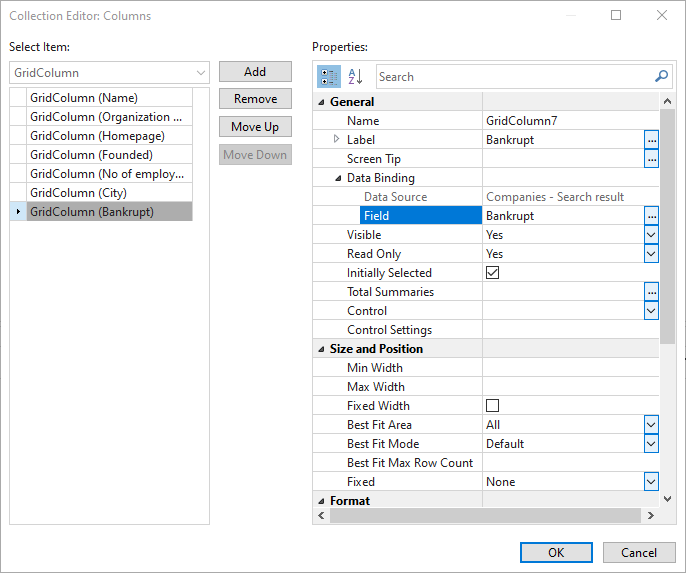
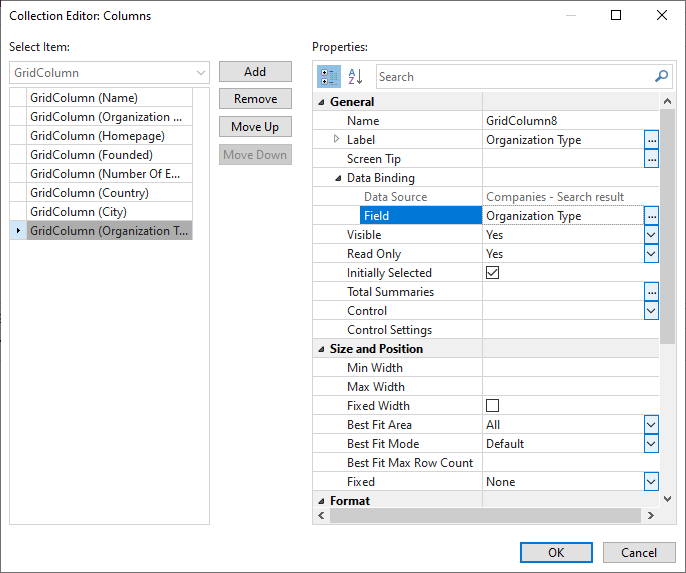
Updates on exercise 4

diff --git a/free/exercise-04.md b/free/exercise-04.md
@@ -10,54 +10,43 @@ Create your first object class, Company.
  ```sql
  create table Company
  (
-   ID uniqueidentifier primary key,
-   Name nvarchar (200),
-   OrganizationNumber varchar (20),
-   Homepage varchar (300),
-   OrgType varchar (20),
-   NoOfEmployees int,
-   Country varchar (100),
-   City varchar (100),
-   FoundedDate datetime,
-   CreatedByUserId uniqueidentifier,
-   CreatedDate datetime,
-   LastModifiedByUserId uniqueidentifier,
-   LastModifiedDate datetime
+    ID uniqueidentifier primary key,
+    Name nvarchar (200),
+    OrganizationNumber varchar (20),
+    Homepage varchar (300),
+    OrganizationType varchar (20),
+    NumberOfEmployees int,
+    Country varchar (100),
+    City varchar (100),
+    Founded datetime
  )
  go
  
  insert into Company ( ID, Name, OrganizationNumber) values ( NEWID (), 'Genus AS' , '979729022' )
  go
  ```
-2. Create the Object Class for Company. In Genus Studio | Object Classes, select New -\&gt; Object Domain.
+2. Create the Object Class for Company. In Genus Studio | Data Structures | Object Classes, select New -> Object Domain.
   1. Next – Use default settings
-  2. Select the new Company table from the list
+  2. Select the new table Company from the list
   3. Next – Keep all columns
-  4. Select Company.ID as the primary key and check &quot;Generate identifier automatically&quot;. Click Next.
+  4. Select _Company.ID_ as the primary key and check _Generate identifier automatically_. Click Next.
   5. Set up the Name and Data Interpretation for the properties as shown in the screenshot. Click Next when completed.
  ![New Object Class](Media/oppg04fig01.png)
   6. Add the property Name as Object Class naming. Click Finish.
-  7. Find the Object Class and expand Company to show the properties.
-  8. For the following properties, open and go to Data Calculation
-    1. Created by – Default: Active User Account Stamp
-    2. Created – Default: Time Stamp
-    3. Last modified by – Formula: Active User Account Stamp
-    4. Last modified – Formula: Time Stamp
 
-_Default will set the value when the object is created, Formula will update the value every time the object is modified._
 
 ####2. Create a Table for Company
 
-Navigate to User Interface | Desktop | Tables in Genus Studio
+Navigate to User Interaction | Desktop | Tables in Genus Studio
 
-1. Select New -\&gt; Basic Table
-2. In Data Sources, Add -\&gt; Object, select Company and click OK.
+1. Select New -> Basic Table
+2. In Data Sources, Add -> Object, select Company and click OK.
 3. Go to Layout, drag Company from the right-hand pane on to Rows.
 4. Expand the Data Source, drag or double click on properties to add them to the table layout.
  ![Table Editor](Media/oppg04fig02.png)
 5. Navigate to Views, rename the view to e.g. Companies.
 6. Save the table with an appropriate name, e.g. Companies.
-7. Navigate to Genus Studio | User Interface | Desktop | Navigation Pane, Right click in the page and select Add View Button. Give it an appropriate name.
+7. Navigate to User Interaction | Desktop | Navigation Pane, Right click in the page and select Add View Button. Give it an appropriate name.
 8. Right click on the new entry and select Properties.
   1. In the Security tab, select Add
   2. Click Advanced and Add Groups
@@ -76,27 +65,25 @@ Navigate to User Interface | Desktop | Tables in Genus Studio
 
 ####3. Create a form for searching in Brønnøysundregisteret
 
-1. In Genus Studio, navigate to Object Classes, add New -\&gt; Object Domain
+1. In Genus Studio, navigate to Object Classes, add New -> Object Domain
   1. Set Data Provider = None, click Next
   2. Select the database table Company, rename to Company (brreg), click Next
-  3. Remove the columns, CreatedByUserId, CreatedDate, LastModifiedByUserId, LastModifiedDate. Click Next.
-  4. Select ID as primary key, and check Generate identifier automatically. Click Next
-  5. Give appropriate names to fields
-  6. Finnish
-2. In Genus Studio, navigate to User Interface | Desktop | Forms and create a new Form.
+  3. Select ID as primary key, and check Generate identifier automatically. Click Next
+  4. Give appropriate names to fields
+  5. Finish
+2. In Genus Studio, navigate to User Interaction | Desktop | Forms and create a new Form.
 3. Go to Data Sources and add a Local Object, rename to UI
   1. Rename to UI
   2. Go to Data Filter, click on the three dots and select Create single object
   3. Add one Field, rename to Search
 4. Add another Data Source, select Object… and select Company (brreg)
   1. Rename to Companies – Search result
-  2. Deselect Persistable
 5. Select the default view
   1. Switch Style to Dialog Box
 6. Add two parallel Group Boxes to the main view, use Esc to traverse back to the top level.
 7. Select the top Group Box
   1. In the right pane, switch view to Data Sources, double click or drag Search from UI.
-  2. Switch back to Desktop Controls and add a Symbol, select a symbol for search. Switch to Type to Small Symbol.
+  2. Switch back to Controls and add a Symbol, select a symbol for search. Switch to Type to Small Symbol.
 8. Select the bottom Group Box and add a Grid.
   1. Select Companies – Search result as the Data Source
   2. Add desired columns to the Grid by clicking the three dots in Columns property
@@ -108,9 +95,10 @@ Navigate to User Interface | Desktop | Tables in Genus Studio
   3. Set Vertical Alignment to Top
 10. Select the bottom Group Box
   1. Deselect Show Title
-11. Save as &quot;Search in Brønnøysundregisteret&quot;
+11. Save as _Search in Brønnøysundregisteret_
+![Form Editor](Media/oppg04fig16.png)
 12. Open the table Companies
-13. Go to Events, right click and New -\&gt; Open a Form
+13. Go to Events, right click and New -> Open a Form
   1. Effect – Select the new Form
   2. Name – Search
   3. Screen Tip - Search in Brønnøysundregisteret
@@ -129,13 +117,13 @@ Navigate to User Interface | Desktop | Tables in Genus Studio
 
 1. Open the form Search in Brønnøysundregisteret
 2. Go to Actions (Local Scope)
-3. Add new Action &quot;Search&quot;
+3. Add new Action _Search_
 4. Go to Actions
 5. Add Decision
   1. Double click on the new Decision
   2. Rename to Clear DS
   3. Click on Set Condition…
-  4. Add decision &quot;Companies – Search result _has value_&quot;
+  4. Add decision _Companies – Search result _has value__
   5. Close
 6. Drag as Read Object(s) onto the decision (or double click on the effect while Clear DS is active)
   1. Double click
@@ -156,15 +144,15 @@ _This will clear previous search results from the data source_
   5. Paste the URL ```https://data.brreg.no/enhetsregisteret/api/enheter?navn=genus``` and click Send
   6. Copy the Response Body, click Close
   7. Paste the Response Body into Json Data, and click OK, select Yes when prompted
-  8. Drag &quot;Companies – Search result&quot; onto Create: (no binding) below the element &quot;enheter&quot;
+  8. Drag _Companies – Search result_ onto Create: (no binding) below the element _enheter_
   9. Drag the appropriate fields onto the corresponding elements
     1. organisasjonsnummer – Organization number
     2. navn – Name
-    3. organisasjonsform -\&gt; kode - Organization type
+    3. organisasjonsform -> kode - Organization type
     4. hjemmeside – Homepage
     5. antallAnsatte – No of employees
-    6. forretningsadresse -\&gt; land – Country
-    7. forretningsadresse -\&gt; poststed - City
+    6. forretningsadresse -> land – Country
+    7. forretningsadresse -> poststed - City
     8. siftelsesdato – Founded
     9. konkurs – Bankrupt
  ![Consume a REST Service - JSON Mapping](Media/oppg04fig06.png)
@@ -173,7 +161,7 @@ _This will clear previous search results from the data source_
 10. Right click on the Action and select properties, go to Security
   1. Add Everybody
   2. Check the two top permissions.
-11. Go to Commands and add New - \&gt; Run a Action (local scope)
+11. Go to Commands and add New - > Run a Action (local scope)
   1. Control: Form
   2. Effect: Seach
   3. Symbol: Search
@@ -194,15 +182,15 @@ _This will clear previous search results from the data source_
 
 ####5. Add a Action to save Companies from Search Result
 
-1. In Genus Studio, navigate to Logic | Actions
+1. In Genus Studio, navigate to User Interaction | Actions
 2. Create a new Action, Save Companies from search result
-3. Add a data source, right click -\&gt; Add -\&gt; Object -\&gt; Company
+3. Add a data source, right click -> Add -> Object -> Company
   1. Rename to Company – search result
   2. Max occurrences = Unbounded
   3. Select Cannot be blank
   4. Deselect Private
   5. Deselect Persistable
-4. Add a data source, right click -\&gt; Add -\&gt; Object -\&gt; Company
+4. Add a data source, right click -> Add -> Object -> Company
   1. Rename to Company – saved
   2. Max occurrences = Unbounded
 5. Go to Actions tab
@@ -222,7 +210,7 @@ _This will clear previous search results from the data source_
 7. Add a command on the Form, Run a Action (Global Scope), and select the new Action
   1. Open Filter Data
     1. Double Click on Company – Search result (or click modify)
-    2. Select &quot;One-way binding,,,&quot;, click Modify
+    2. Select _One-way binding,,,_, click Modify
     3. Select Companies – Search result (form data source) in first drop down
     4. Select Selected in second drop down
     5. Click OK back to Form editor
@@ -231,13 +219,13 @@ _This will clear previous search results from the data source_
     2. Group: Companies – Search result
     3. Selection: Selected objects
     4. Click OK
-    5. The condition should now be &quot;Companies – Search result.Selected Objects _has value&quot;_
+    5. The condition should now be _Companies – Search result.Selected Objects _has value__
     6. Click OK
 8. Go to View editor and add a Button somewhere appropriate.
   1. Give the button a label. If necessary, remove the 75px width constraint
   2. Add an Event, On Click, and select the new command
 9. Save and close the form
-10. Navigate to Data -\&gt; Object Classes -\&gt; Company
+10. Navigate to Data -> Object Classes -> Company
   1. Open (double click Company)
   2. Go to Data Integrity, click change on Uniqueness Constraint
   3. Click Add, and setup this constraint
@@ -286,7 +274,7 @@ _NOTE: Small issue with the updated object appearing in the search result, this 
 
 ####8. Create a Code Domain for Company State
 
-1. Create a Code Domain for Company State. In Genus Studio | Object Classes, select New -\&gt; Code Domain. Name the Code Domain &quot;Company State&quot; and add the values below. Click OK.
+1. Create a Code Domain for Company State. In Genus Studio | Object Classes, select New -> Code Domain. Name the Code Domain _Company State_ and add the values below. Click OK.
  ![Code Domain - General](Media/oppg04fig14.png) ![Code Domain - Data Entries](Media/oppg04fig15.png)
 2. Add a new column to the database table Company
  ```sql
@@ -298,7 +286,7 @@ _NOTE: Small issue with the updated object appearing in the search result, this 
  set StateId = 1
  go
  ```
-3. On the object class Company, right click and select &quot;Add object class properties&quot;
+3. On the object class Company, right click and select _Add object class properties_
 4. Select the new column and set interpretation to the new Code Domain.
 
 

diff --git a/free/installation_setup.md b/free/installation_setup.md
@@ -2,7 +2,7 @@
 # Installation of Genus and URLs to the environments
 
 ### Installation
-In case you haven't installed Genus Apps on your computer yet: Open the web browser and type https://free-**\<username\>**-origin.free.genus.net/Download/Setup.exe. This will download Genus.	
+In case you haven't installed Genus Apps on your computer yet: Open the web browser and type https://free-**\<username\>**-origin.free.genus.net/download/Setup.exe. This will download Genus.	
 
 ### Log into your Environment
 You can access your environment through the URL https://free-**\<username\>**-origin.free.genus.net/
